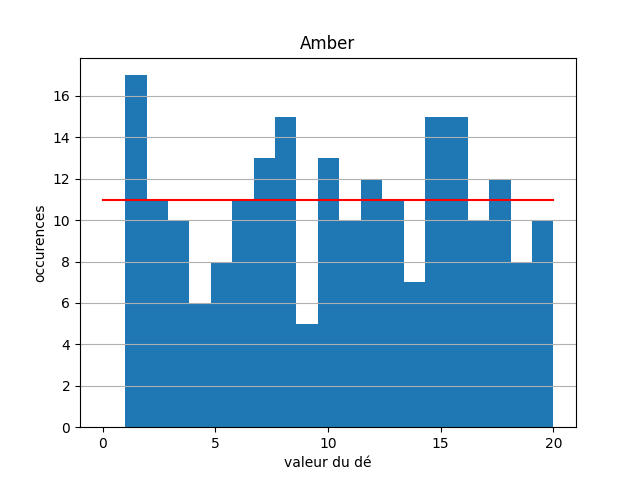
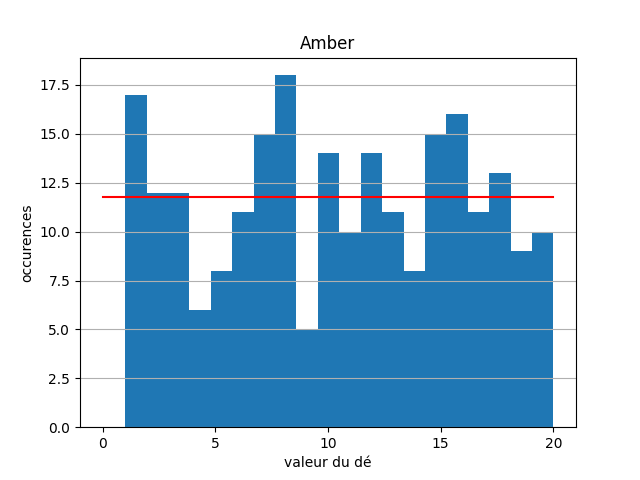
feat: new character form done add the new character to the campaign file (characters list ordered alphabeticaly) update rpgPage render condition for games list (games without the new character does not display it) test end-to-end with the new character on eveilduseigneurdesrunes file and add last ga

diff --git a/app/controllers/mainController.js b/app/controllers/mainController.js
@@ -200,11 +200,38 @@ const mainController = {
     }
   },
   addNewCharacter: async (req, res) => {
-    const form = await req.body;
+    const { character, campaign } = await req.body;
 
-    console.log(form);
+    // récupère les données du fichier de sauvegarde
+    const rpgData = dataMapper.getRpgData(campaign);
+    const newRpgData = rpgData;
 
-    res.redirect(`/campagne/${form.campaign}`);
+    // ajoute le nouveau personnage à la liste et réordonne
+    newRpgData.characters.push(character);
+    newRpgData.characters.sort();
+
+    // initialize les données globales du personnage pour les parties à venir
+    newRpgData.stats[character] = {
+      globalMedian: 0,
+      globalAvg: 0,
+      globalSuccess: 0,
+      globalFail: 0,
+      dicesList: []
+    };
+
+    // met à jour le tableau global des stats par ordre alphabétique
+    const orderedStats = {};
+
+    newRpgData.characters.map((pj) => {
+      orderedStats[pj] = newRpgData.stats[pj];
+    });
+
+    newRpgData.stats = orderedStats;
+
+    // met à jour le fichier de sauvegarde avec les nouvelles données
+    dataMapper.updateGameFile(newRpgData, campaign);
+
+    res.redirect(`/campagne/${campaign}`);
   }
 }
 
